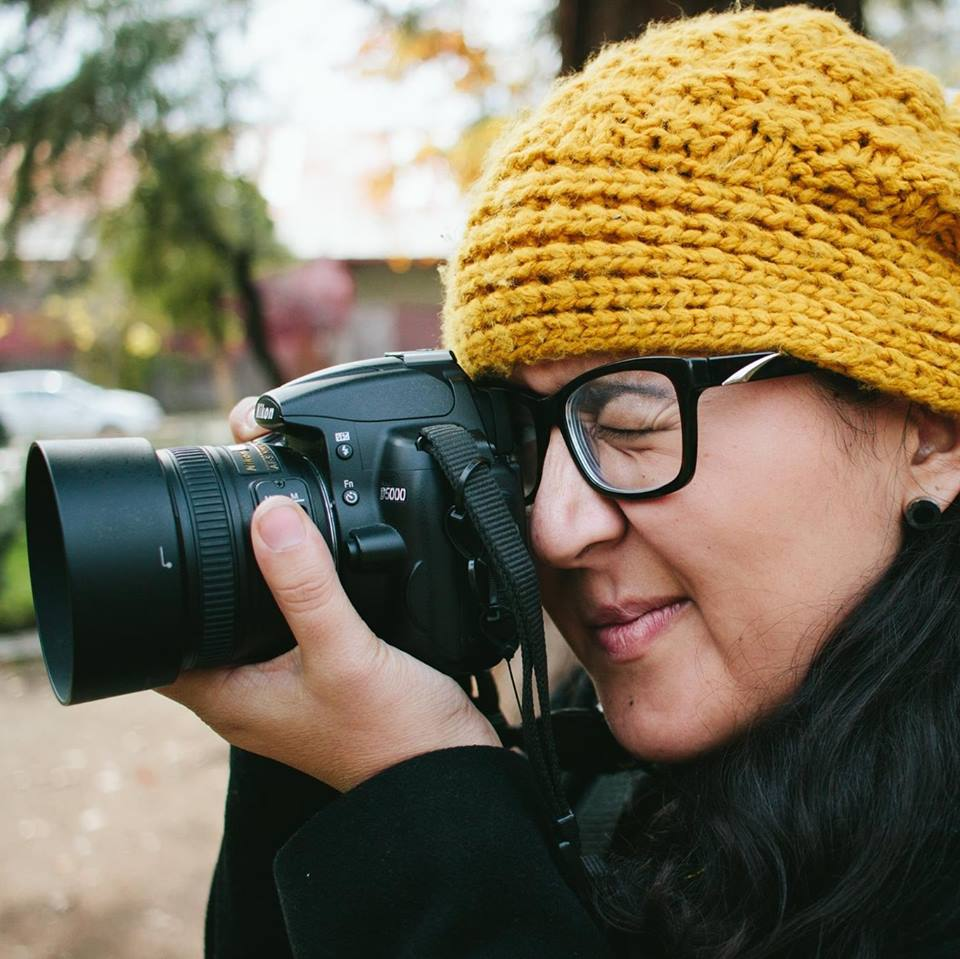
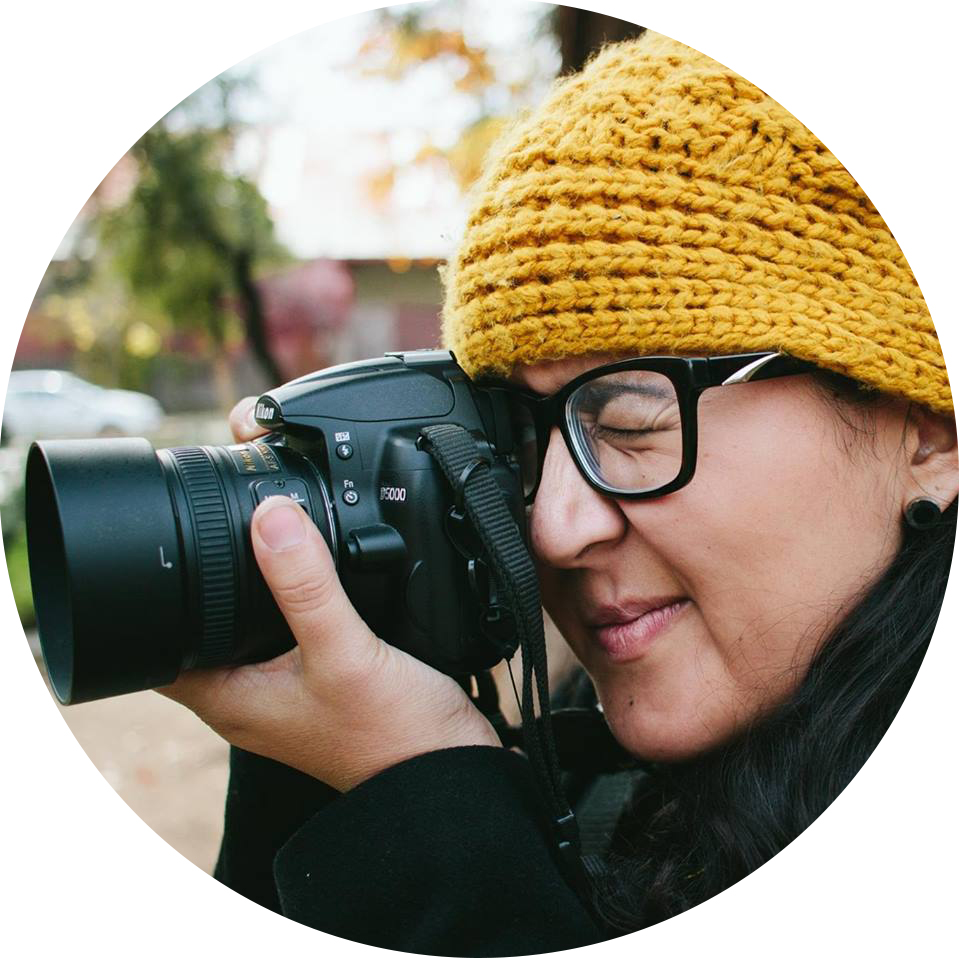
modificacion de color y algunas fotos

diff --git a/index.html b/index.html
@@ -9,21 +9,22 @@
 
 </head>
 <body>
+<center> <img src="img/cabecera.jpg"> </center>
 
 <center><img src="img/blanca.jpg" width="300" height="300"></center>
 
+<center><img src="img/fundamentos.png"></center>
+
+
 	<div>
-		<center><strong><h4>La práctica hace al maestro</h4></strong></center>
+		<center><strong><h4>LA PRÁCTICA HACE AL MAESTRO</h4></strong></center>
 	</div>
 
-	<div>
-		<center><h1> C    i    r    c    u    s    S    q    u    a    d</h1></center>
-				<center><p>Aprender haciendo </p></center>
-		<center> <table>
-			<thead>
-				<th colspan="4"><h2> <strong>Somos </strong> un grupo de mujeres de <span>Laboratoria Chile</span> que trabajamos en equipo para lograr sacar adelante el primer proyecto de página web. Échenle un vistazo!</h2></th>	
+	<center><img src="img/linea.png" width="1090"></center>
 
-			</thead>
+	<div>
+				
+	    <center><h1> C    i    r    c    u    s    S    q    u    a    d</h1></center>
 			<tr></tr>
 	</div>
 
@@ -72,14 +73,14 @@
 	<a href="https://www.facebook.com/photo.php?fbid=10210191812942432&set=a.1561301923123.2080897.1552586609&type=3&theater">
 	    <img src="img/paula.jpg" width="250" height="250" >
 	</a>
-	<center><h3>Paula Selpulvera</h3></center>
+	<center><h3>Paula Selpulveda</h3></center>
 
 	</td>
 
 	    <td>
 	<a href="https://www.facebook.com/photo.php?fbid=1222155964481865&set=a.148063028557836.23684.100000624186007&type=3&theater">   <img src="img/evelin.jpg" width="250" height="250"> 
 	</a>	
-	<center><h3>Elevin Riquelme</h3></center>   
+	<center><h3>Evelin Riquelme</h3></center>   
        </td>
 
 	    <td>
@@ -89,16 +90,23 @@
     <center><h3>Kelly Urribarri</h3></center>
 	    </td>
 	      
+
 </table> </center>
 	</div>
+
+<center><img src="img/linea.png" width="1090"></center>
+	
+
+
 
 	<center> <h1>A la  batalla</h1> </center>
 
 	<center> <img src="img/fondocebra.jpg" width="1220"></center>
 	
 
-<h1> Aunque somos distintas, venimos de lugares distintos, nuestras historias son distintas; nos encontramos con un mismo propósito: <strong>Aprender a programar</strong>. </h1>
-<p>Ha sido un gran desafío empreder este viaje e ir viendo concretamente cómo hemos ido avanzando en este largo camino que es el conocimiento del universo virtual.</p>
+<center><h1> Aunque somos distintas, venimos de lugares distintos, nuestras historias son distintas; nos encontramos con un mismo propósito: <strong>Aprender a programar</strong>. </h1></center>
+
+<center><p>Ha sido un gran desafío empreder este viaje e ir viendo concretamente cómo hemos ido avanzando en este largo camino que es el conocimiento del universo virtual.</p></center>
 
 
 <div>

diff --git a/stylesheet.css b/stylesheet.css
@@ -10,31 +10,27 @@ body 	{
 /*H1 es Circus Squad*/
 h1 	{
 	font-family: serif;
-	color:green;
+	color: orange;
 	font-size: 50px;
 }
 /*H2 Quienes somos*/
-h2 	{
-	font-family: cursive;
-	color:gray;
-	font-size: 15px;
-}
+
 /*Aprender haciendo*/
-p 	{
-	font-family: Courier;
-	font-size: 20px;
+p, h2	{
+	font-family: Arial;
+	font-size: 15px;
 	color:black;
 }
 /*H3 son los nombres de cada una*/
 h3 	{
 	color:gray;
-	font-family: cursive;
-	font-size: 15px;
+	font-family: Arial;
+	font-size: 12px;
 }
 /*H4 es La práctica hace al maestro*/
 h4 	{
-	font-size: 15px;
-	font-family: Courier;
+	font-size: 15px; color: gray;
+	font-family: Arial;
 }
 img 	{
 	border: 2px double white;
@@ -43,3 +39,5 @@ img 	{
 div 	{
 	display: inline;
 }
+
+th {display: inline-block;}
